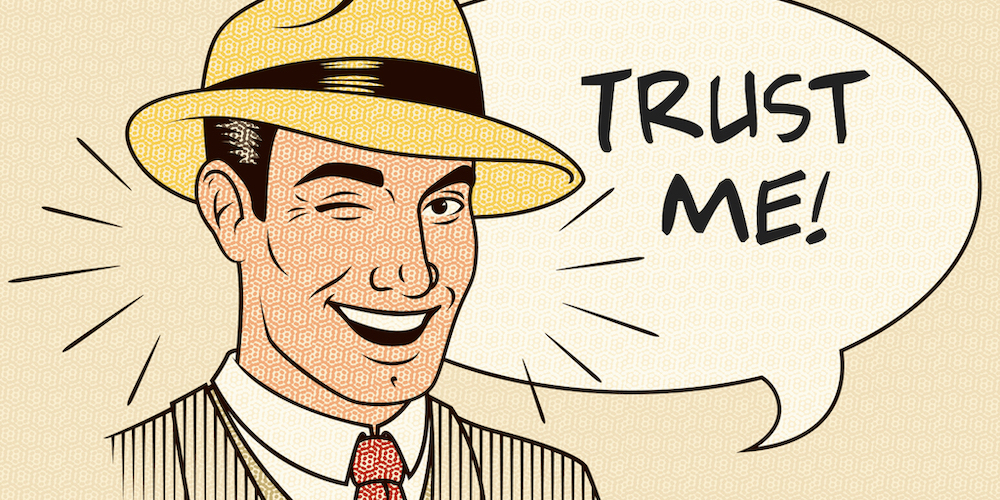
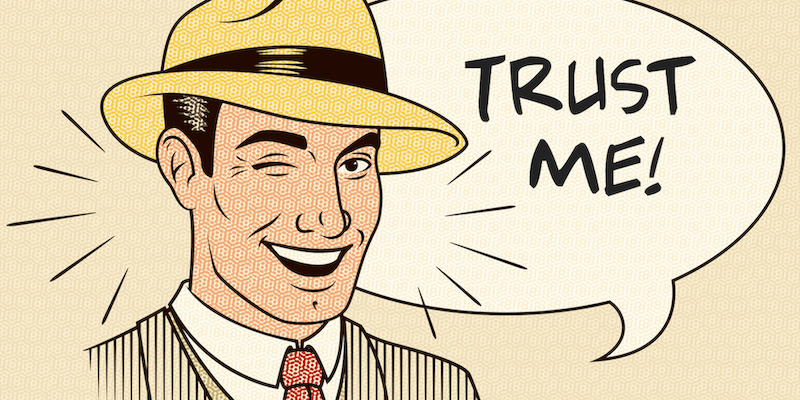
reduce some card sizes

diff --git a/src/_posts/2020/2020-10-17-how-do-i-use-my-iphone-cameras.md b/src/_posts/2020/2020-10-17-how-do-i-use-my-iphone-cameras.md
@@ -5,7 +5,7 @@ title: How do I use my iPhone cameras?
 summary: A script to work out which camera I use most often on my iPhone, and whether I'd miss a telephoto lens.
 tags: iphone photography
 index:
-  image: /images/2020/iphone_cameras_card.png
+  image: /images/2020/iphone_cameras_card.jpg
   tint_color: "#353335"
 ---
 

diff --git a/src/_posts/2020/2020-02-06-archival-storage-service.md b/src/_posts/2020/2020-02-06-archival-storage-service.md
@@ -8,7 +8,7 @@ link: https://stacks.wellcomecollection.org/building-wellcome-collections-new-ar
 
 index:
   best_of: true
-  image: /images/2020/storage_service_card.png
+  image: /images/2020/storage_service_card.jpg
   tint_color: "#223395"
 
 tags: digital-preservation wellcome

diff --git a/src/_posts/2020/2020-01-22-uk-stations-map.md b/src/_posts/2020/2020-01-22-uk-stations-map.md
@@ -7,7 +7,7 @@ category: Glitch apps
 link: https://uk-stations-map.glitch.me/
 tags: glitch trains fun
 index:
-  image: /images/2020/uk-stations-map-card.png
+  image: /images/2020/uk-stations-map-card.jpg
   tint_color: "#0b9e00"
 ---
 
